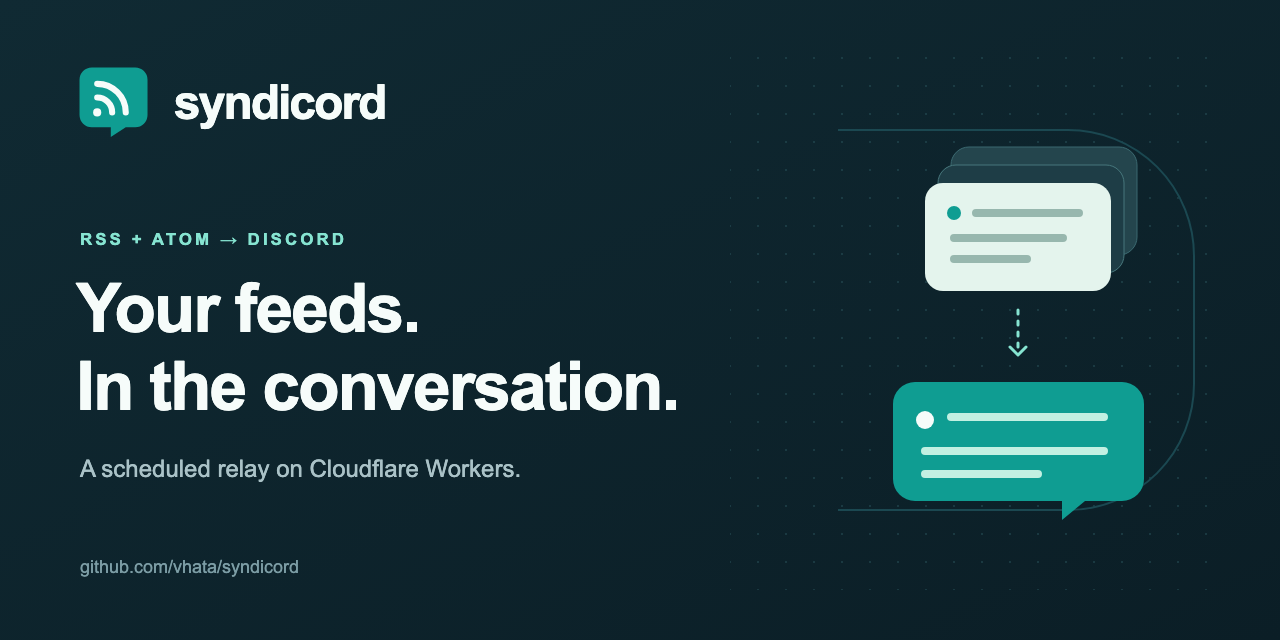
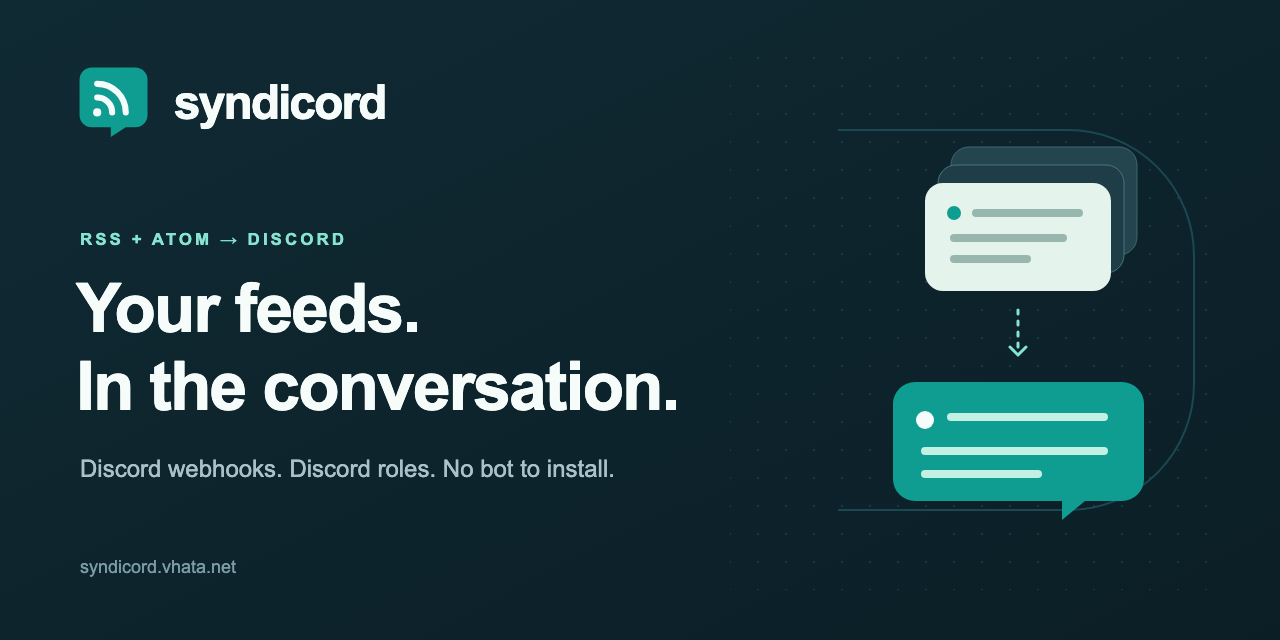
Add branded website link previews for Discord (#29)
## Why

Shared website links show only a generic relay description and no image.
The preview should explain webhook delivery without bot installation
and show the project's existing visual identity.

## What changed

Add static Open Graph and large-image card metadata, with a descriptive
homepage title and copy about webhooks and Discord role access. Preserve
guide titles and derive canonical and image URLs from the configured
site origin and publication path.

Publish the social PNG in the website build under a filename based on
its content hash. Refresh its subtitle and website address while keeping
the existing artwork. Document regeneration and local preview behavior.

Extend website checks to validate metadata, image bytes and dimensions,
versioned paths, and canonical URLs in the generated HTML.

## Markers

Type: fix

## Validation

- `bash scripts/check.sh` passes: 270 source/runtime tests, two package
  tests, formatting, lint, types, and website checks at both base paths.
- Website checks pass for the custom-domain root, GitHub project path,
  and origin-unset local builds. Broken image tags, dimensions, and
  origins are rejected by disposable fixtures.
- Local HTTP reads without JavaScript retrieve the metadata and exact
  PNG with HTTP 200 and `image/png` for homepage and guide links.
- Artwork dimensions, opacity, SVG safety, and the local preview gallery
  pass desktop/mobile, light/dark, image-loading, and keyboard checks.
[…]

Changed region(s): [[0.0625, 0.7188, 0.5, 0.75], [0.0625, 0.875, 0.25, 0.9062]]

diff --git a/docs/WEBSITE.md b/docs/WEBSITE.md
@@ -45,6 +45,25 @@ separate copy of the documentation to synchronize.
 The site uses pinned VitePress and a scoped Vite override in `package.json`;
 review both when updating website dependencies.
 
+### Link previews
+
+The built HTML includes Open Graph and large-image card metadata for links
+shared in Discord and other clients. The homepage describes webhook delivery and
+Discord role access; guide links retain their own page titles. The preview uses
+the committed [social artwork](../assets/README.md).
+
+Set `SITE_URL` to the public origin and `SITE_BASE_PATH` to its publication path
+when building for hosting, as described below. These produce absolute image and
+canonical URLs. Without `SITE_URL`, local builds use a site-relative image URL
+and omit canonical URLs. Use `site:preview` to inspect the built image;
+`site:dev` does not publish it.
+
+The PNG is copied into the build with a content hash in its filename, so an
+artwork change gets a new image URL. `site:check` validates the generated
+metadata, image bytes, dimensions, and paths. Actual unfurls still need a check
+in Discord after publication; local previews do not verify Discord's rendering
+or refresh an existing message's cached preview.
+
 Before opening a PR, run the [complete project checks](QUALITY.md#gates).
 `scripts/check.sh` checks the website at both `/` and `/syndicord/`, covering
 domain-root and GitHub project-site paths. The **Website** workflow also builds

diff --git a/assets/README.md b/assets/README.md
@@ -9,13 +9,18 @@ not a Cloudflare or Discord logo.
 | `syndicord.svg`      | Editable, font-independent mark with a transparent background |
 | `syndicord.png`      | Transparent 256 × 256 raster export                           |
 | `social-preview.svg` | Editable 1280 × 640 conceptual feed-to-chat artwork           |
-| `social-preview.png` | Opaque social preview for repository links                    |
+| `social-preview.png` | Opaque social preview for website and repository links        |
 
 The social artwork is an illustration, not a product screenshot. Its text uses
 Arial, with Helvetica and sans-serif fallbacks. Font availability can change
 text rendering when exporting the SVG; the committed PNG is the intended upload
 image. The mark itself contains no text or external assets and works on light
 and dark backgrounds.
+
+The website publishes the committed social PNG at a content-versioned URL and
+advertises it in its link-preview metadata. After changing the SVG, regenerate
+the PNG before building the site. See
+[website link previews](../docs/WEBSITE.md#link-previews).
 
 ## Export
 
